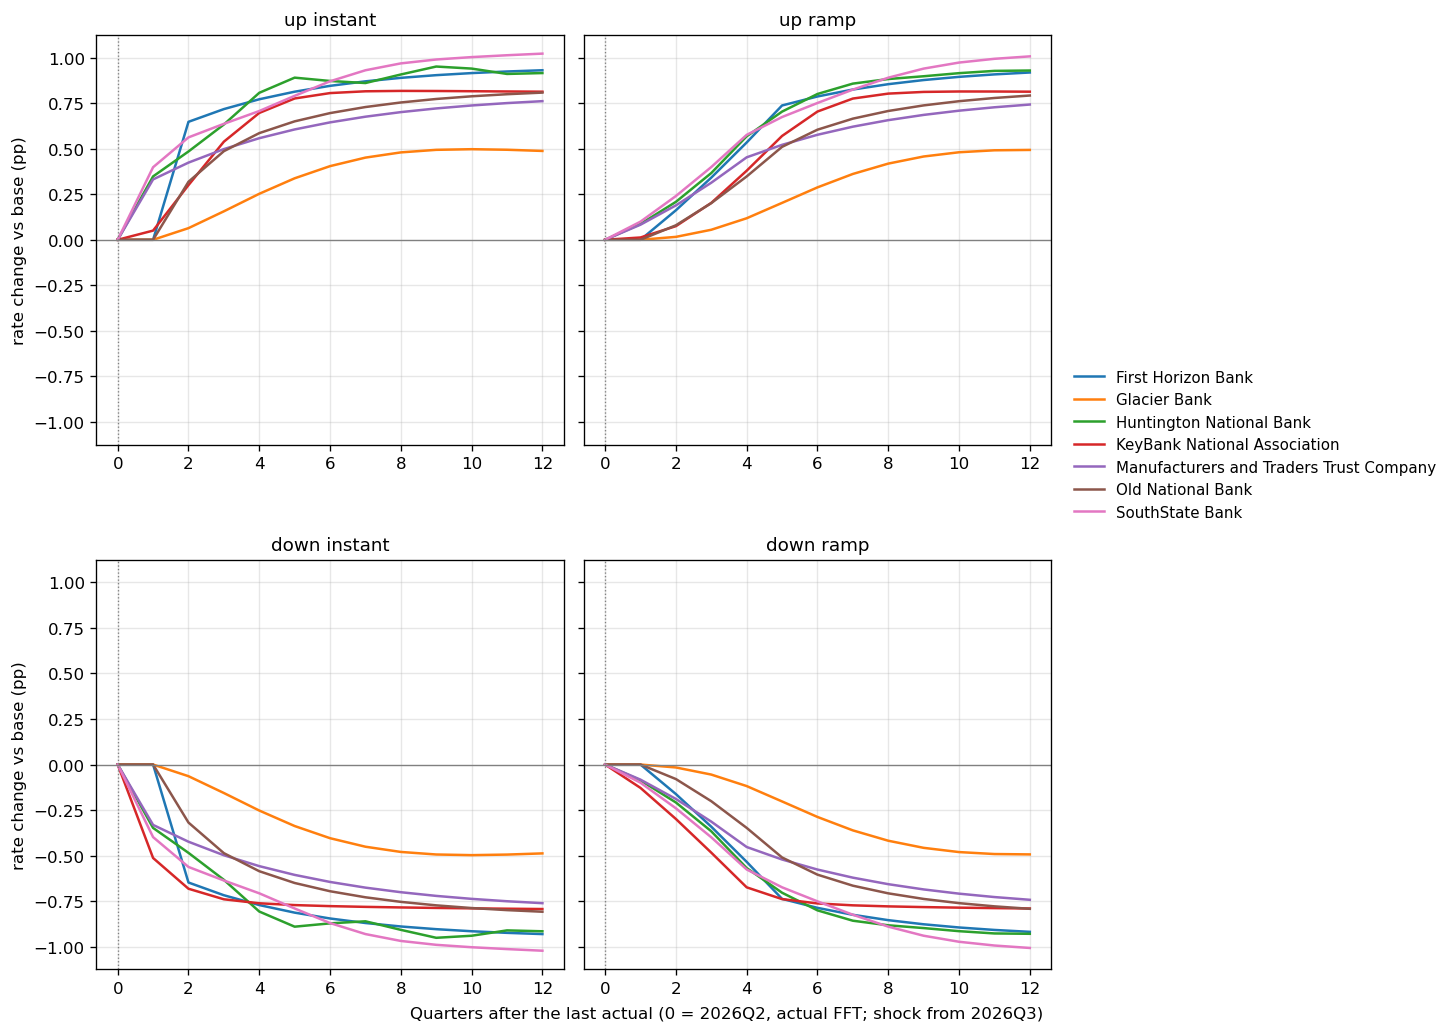
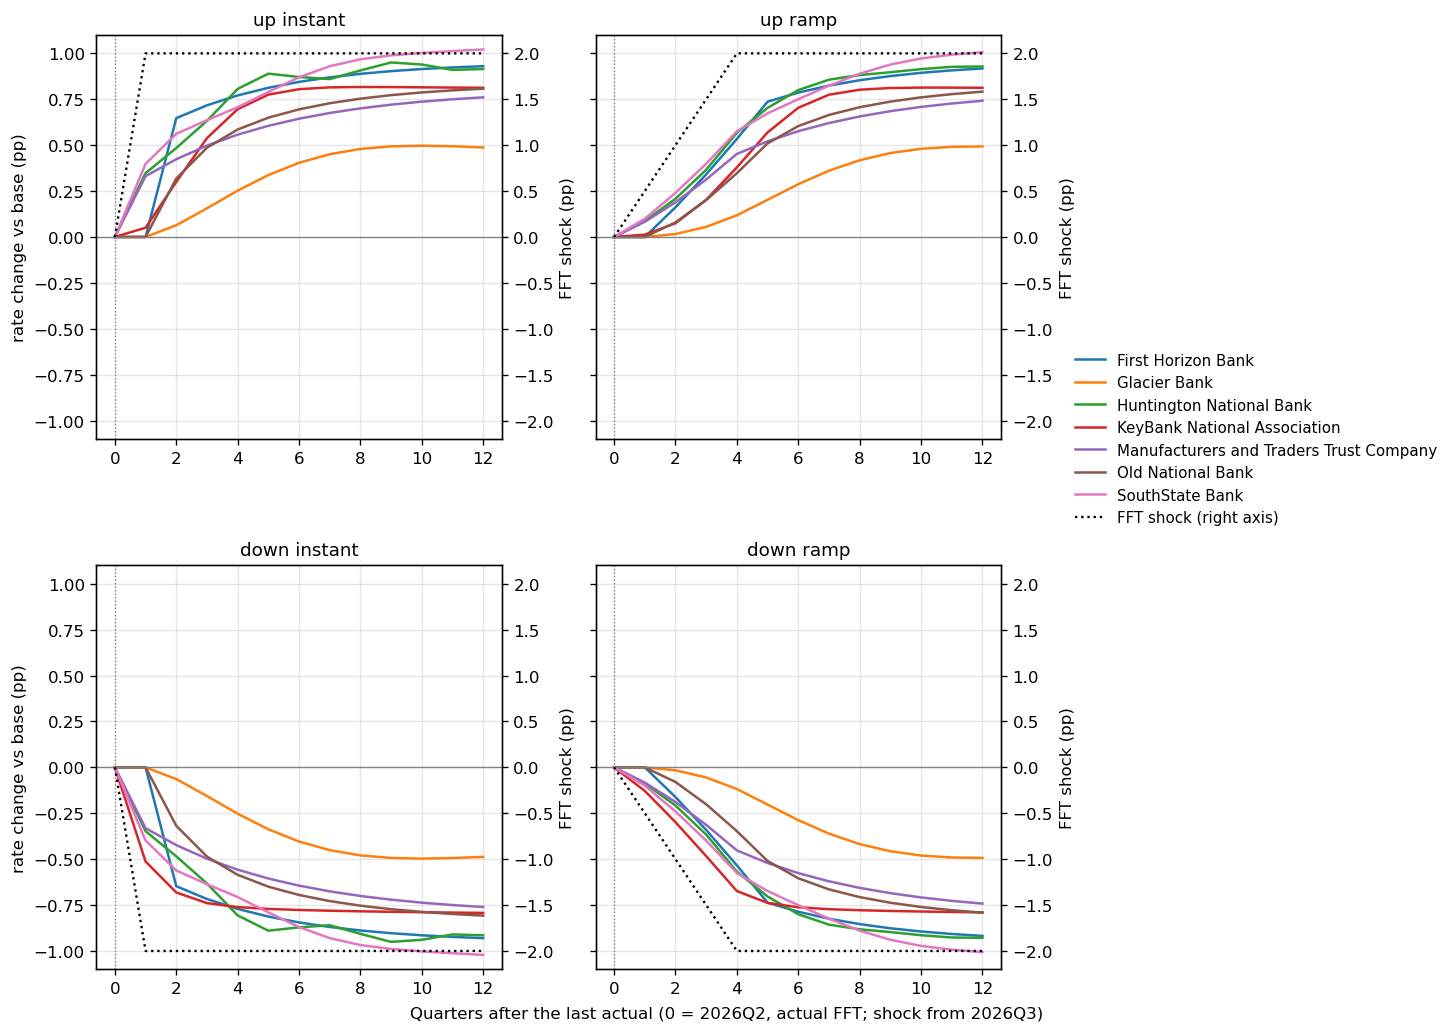
Scenario charts: pass-through bar panel by horizon; FFT shock on second axis of rate-change panel

Changed region(s): [[0.0, 0.0, 0.9904, 0.5266], [0.0, 0.5266, 0.7428, 0.9913], [0.0309, 0.5576, 0.0928, 0.6196]]

diff --git a/projection/run_scenarios.py b/projection/run_scenarios.py
@@ -133,12 +133,50 @@ def charts(proj, pt):
         ax.set_title(sc.replace("_", " "), fontsize=11)
         ax.axvline(0, color="grey", linewidth=0.8, linestyle=":")
         ax.axhline(0, color="grey", linewidth=0.8)
+        ax2 = ax.twinx()  # FFT shock used (FFT - base FFT), dotted, same scale on every panel
+        f = proj[(proj.bank == banks[0]) & (proj.scenario == sc)].set_index("k")["FFT"]
+        fb = proj[(proj.bank == banks[0]) & (proj.scenario == "base")].set_index("k")["FFT"]
+        ax2.plot(f.index, f - fb, color="black", linewidth=1.4, linestyle=":", label="FFT shock (right axis)")
+        ax2.set_ylim(-2.2, 2.2)
+        ax2.set_ylabel("FFT shock (pp)")
+        ax.set_ylim(-1.1, 1.1)
         ax.grid(True, alpha=0.3)
     fig.supxlabel(XLABEL, fontsize=10)
     axes[0, 0].set_ylabel("rate change vs base (pp)")
     axes[1, 0].set_ylabel("rate change vs base (pp)")
-    axes[0, 1].legend(loc="center left", bbox_to_anchor=(1.02, 0), frameon=False, fontsize=9)
+    h, l = axes[0, 1].get_legend_handles_labels()
+    h.append(plt.Line2D([], [], color="black", linestyle=":", linewidth=1.4)); l.append("FFT shock (right axis)")
+    axes[0, 1].legend(h, l, loc="center left", bbox_to_anchor=(1.15, 0), frameon=False, fontsize=9)
     fig.savefig(FIG_DIR / "all_banks_passthrough.png", dpi=120, bbox_inches="tight")
+    plt.close(fig)
+    bars(pt, banks)
+
+
+def bars(pt, banks):
+    """All-banks panel of bar charts: pass-through ratio by shock scenario, grouped by horizon k."""
+    import matplotlib.pyplot as plt
+    shocks = [s for s in SCENARIOS if s != "base"]  # base has no shock, so no ratio
+    pt = pt[pt.scenario.isin(shocks)]
+    fig, axes = plt.subplots(2, 4, figsize=(18, 8), sharey=True, constrained_layout=True)
+    w = 0.2
+    for ax, bank in zip(axes.ravel(), banks):
+        g = pt[pt.bank == bank]
+        for i, sc in enumerate(shocks):
+            v = g[g.scenario == sc].set_index("k")["passthrough"].reindex(HORIZONS)
+            xs = np.arange(len(HORIZONS)) + (i - 1.5) * w
+            ax.bar(xs, v.values, w, color=COLORS[sc], label=sc.replace("_", " "))
+            for x, y in zip(xs, v.values):
+                ax.text(x, y + 0.01, f"{y:.2f}", ha="center", fontsize=6.5)
+        ax.set_xticks(range(len(HORIZONS)), [f"k={h}" for h in HORIZONS])
+        ax.set_title(bank, fontsize=9)
+        ax.grid(True, axis="y", alpha=0.3)
+    for ax in axes.ravel()[len(banks):]:
+        ax.axis("off")
+    axes[0, 0].set_ylabel("pass-through ratio")
+    axes[1, 0].set_ylabel("pass-through ratio")
+    axes.ravel()[0].legend(fontsize=8, frameon=False, loc="upper left")
+    fig.suptitle("Cumulative pass-through = (rate - base rate) / FFT shock, by horizon", fontsize=11)
+    fig.savefig(FIG_DIR / "all_banks_passthrough_bars.png", dpi=120, bbox_inches="tight")
     plt.close(fig)
 
 
